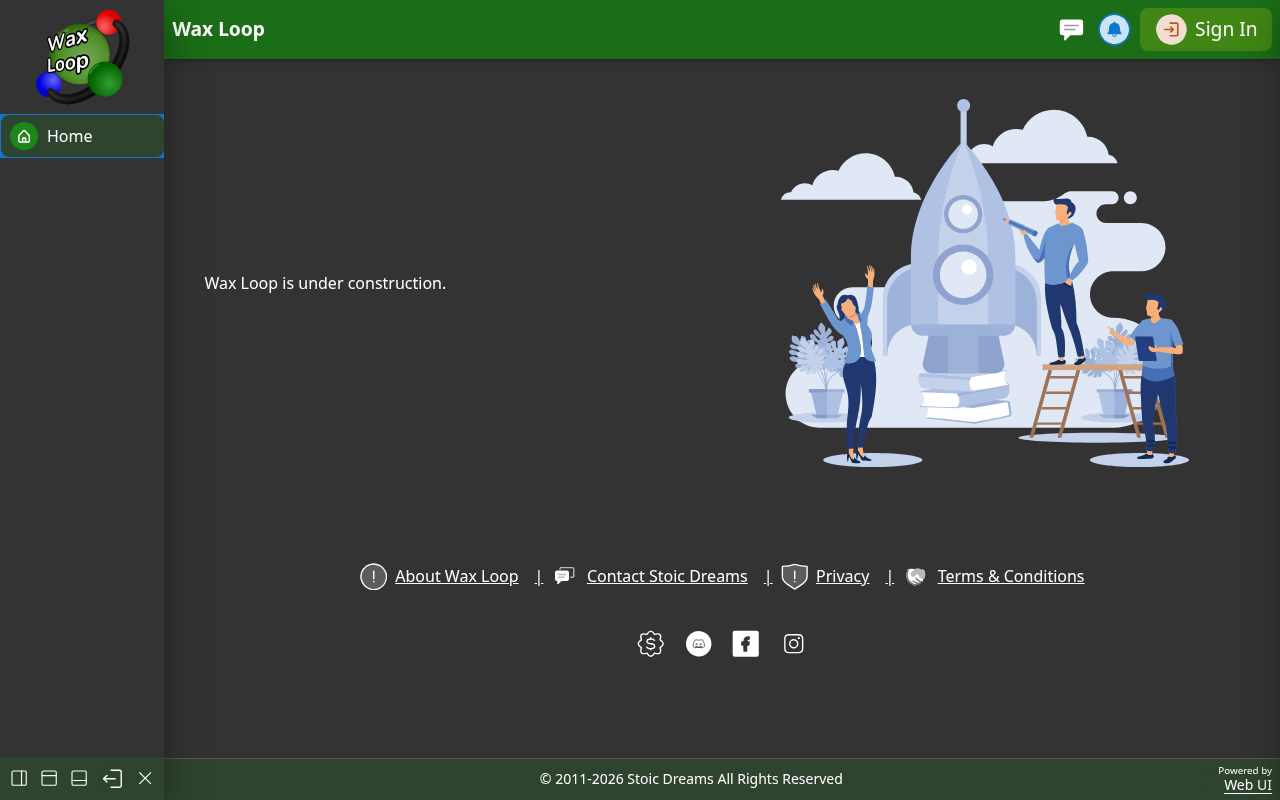
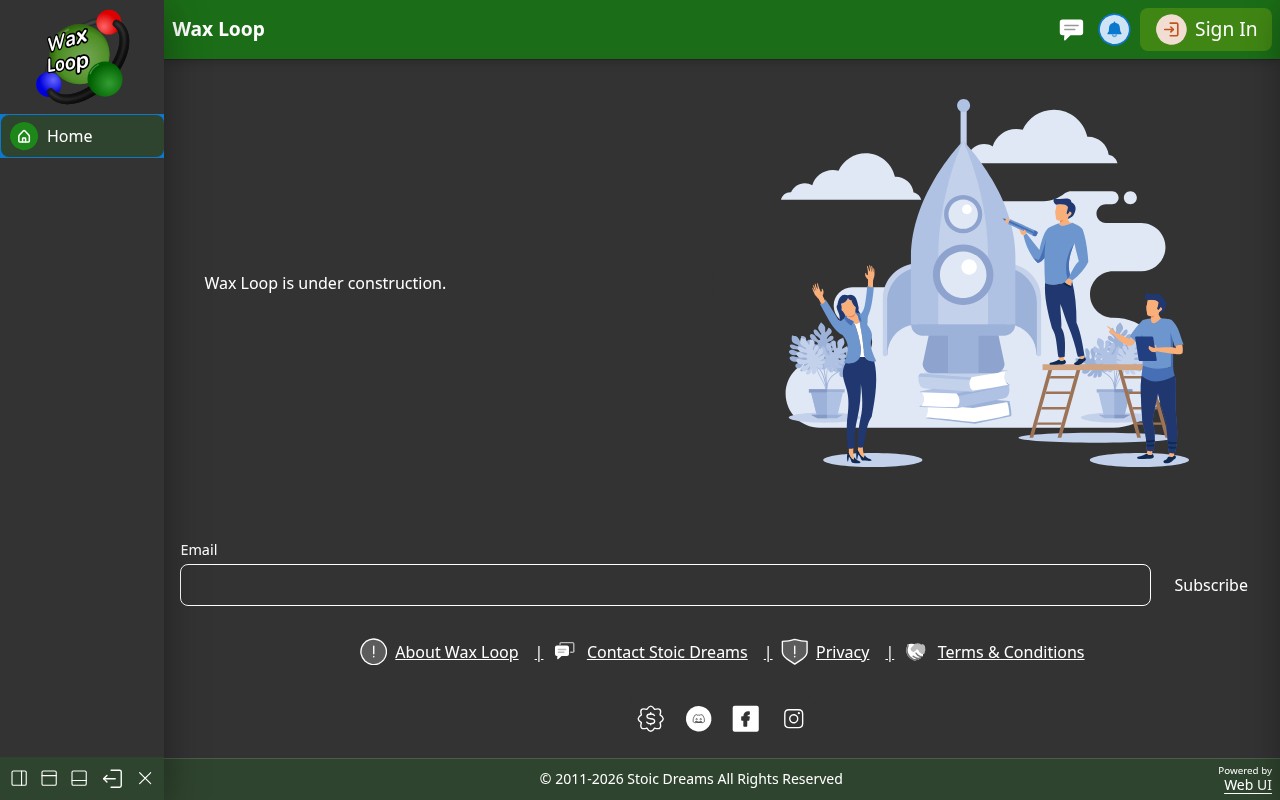
Stoic Dreams newsletter signup Feature: The footer has the Stoic Dreams newsletter signup form, as stoicdreams.com does

diff --git a/webapp/root_files/service-worker.min.js b/webapp/root_files/service-worker.min.js
@@ -1,1 +1,1 @@
-self.addEventListener("install",t=>t.waitUntil(onInstall(t))),self.addEventListener("activate",t=>t.waitUntil(onActivate(t))),self.addEventListener("fetch",t=>{const e=new URL(t.request.url);e.protocol==="ipc:"||e.protocol==="tauri:"||e.hostname==="ipc.localhost"||e.hostname==="tauri.localhost"||e.hostname.startsWith("127")||e.hostname==="localhost"||t.request.url.startsWith("http")&&allowCache(t.request)&&t.respondWith(onFetch(t))});const currentVersion="0.1.29",cacheNamePrefix="offline-cache-",cacheName=`${cacheNamePrefix}${currentVersion}`;async function onInstall(t){self.skipWaiting()}async function onActivate(t){const e=await caches.keys();await Promise.all(e.filter(a=>a.startsWith(cacheNamePrefix)&&a!==cacheName).map(a=>caches.delete(a))),await self.clients.claim()}async function onFetch(t){const e=await caches.open(cacheName);let a;try{a=await fetch(applyCacheBusting(t.request))}catch(n){const c=await e.match(t.request);if(c)return c;throw n}return a.ok?(t.waitUntil(e.put(t.request,a.clone()).catch(()=>{})),a):await e.match(t.request)||a}function applyCacheBusting(t){try{const e=new URL(t.url);return e.searchParams.set("_",Date.now()),new Request(e.toString(),t)}catch{return t}}function allowCache(t){return!(t.method!=="GET"||t.mode==="navigate")}
+self.addEventListener("install",t=>t.waitUntil(onInstall(t))),self.addEventListener("activate",t=>t.waitUntil(onActivate(t))),self.addEventListener("fetch",t=>{const e=new URL(t.request.url);e.protocol==="ipc:"||e.protocol==="tauri:"||e.hostname==="ipc.localhost"||e.hostname==="tauri.localhost"||e.hostname.startsWith("127")||e.hostname==="localhost"||t.request.url.startsWith("http")&&allowCache(t.request)&&t.respondWith(onFetch(t))});const currentVersion="0.1.30",cacheNamePrefix="offline-cache-",cacheName=`${cacheNamePrefix}${currentVersion}`;async function onInstall(t){self.skipWaiting()}async function onActivate(t){const e=await caches.keys();await Promise.all(e.filter(a=>a.startsWith(cacheNamePrefix)&&a!==cacheName).map(a=>caches.delete(a))),await self.clients.claim()}async function onFetch(t){const e=await caches.open(cacheName);let a;try{a=await fetch(applyCacheBusting(t.request))}catch(n){const c=await e.match(t.request);if(c)return c;throw n}return a.ok?(t.waitUntil(e.put(t.request,a.clone()).catch(()=>{})),a):await e.match(t.request)||a}function applyCacheBusting(t){try{const e=new URL(t.url);return e.searchParams.set("_",Date.now()),new Request(e.toString(),t)}catch{return t}}function allowCache(t){return!(t.method!=="GET"||t.mode==="navigate")}

diff --git a/webapp/pages/index.html b/webapp/pages/index.html
@@ -81,12 +81,13 @@
 	<link rel="preload" as="script" href="https://cdn.myfi.ws/webui/link.min.js" crossorigin="anonymous" />
 	<link rel="preload" as="script" href="https://cdn.myfi.ws/webui/myfi-info.min.js" crossorigin="anonymous" />
 	<link rel="preload" as="script" href="https://cdn.myfi.ws/webui/nav.min.js" crossorigin="anonymous" />
+	<link rel="preload" as="script" href="https://cdn.myfi.ws/webui/newsletter.min.js" crossorigin="anonymous" />
 	<link rel="preload" as="script" href="https://cdn.myfi.ws/webui/next-page.min.js" crossorigin="anonymous" />
 	<link rel="preload" as="script" href="https://cdn.myfi.ws/webui/page-footer.min.js" crossorigin="anonymous" />
 	<link rel="preload" as="script" href="https://cdn.myfi.ws/webui/stoic-dreams-logo.min.js" crossorigin="anonymous" />
 	<link rel="preload" as="script" href="https://cdn.myfi.ws/webui/stoic-social-links.min.js" crossorigin="anonymous" />
 	<link rel="preload" as="script" href="https://cdn.myfi.ws/webui/under-construction.min.js" crossorigin="anonymous" />
-	<meta name="webui-prerender" content="114298671c">
+	<meta name="webui-prerender" content="89d2545d69">
 </head>
 
 <body>
@@ -123,6 +124,7 @@
 		<noscript>Javascript is required to view this site</noscript>
 		<webui-page-footer copyright="2011" company="Stoic Dreams">
 			<webui-next-page theme="tertiary" data-subscribe="page-next-page"></webui-next-page>
+			<webui-newsletter key="703a9b5e-0a14-4ed7-9618-ce96ca4e3e21"></webui-newsletter>
 			<webui-flex class="my-3" justify="center" wrap>
 				<webui-link href="/about" icon="circle_exclamation|backing|bordered">About Wax Loop</webui-link>
 				<webui-link href="/contact" icon="messages|fill|shade:tri">Contact Stoic Dreams</webui-link>

diff --git a/webapp/pages/about.html b/webapp/pages/about.html
@@ -83,11 +83,12 @@
 	<link rel="preload" as="script" href="https://cdn.myfi.ws/webui/link.min.js" crossorigin="anonymous" />
 	<link rel="preload" as="script" href="https://cdn.myfi.ws/webui/myfi-info.min.js" crossorigin="anonymous" />
 	<link rel="preload" as="script" href="https://cdn.myfi.ws/webui/nav.min.js" crossorigin="anonymous" />
+	<link rel="preload" as="script" href="https://cdn.myfi.ws/webui/newsletter.min.js" crossorigin="anonymous" />
 	<link rel="preload" as="script" href="https://cdn.myfi.ws/webui/next-page.min.js" crossorigin="anonymous" />
 	<link rel="preload" as="script" href="https://cdn.myfi.ws/webui/page-footer.min.js" crossorigin="anonymous" />
 	<link rel="preload" as="script" href="https://cdn.myfi.ws/webui/stoic-dreams-logo.min.js" crossorigin="anonymous" />
 	<link rel="preload" as="script" href="https://cdn.myfi.ws/webui/stoic-social-links.min.js" crossorigin="anonymous" />
-	<meta name="webui-prerender" content="a0ec4bf051">
+	<meta name="webui-prerender" content="d93cee7193">
 </head>
 
 <body>
@@ -126,6 +127,7 @@
 		<noscript>Javascript is required to view this site</noscript>
 		<webui-page-footer copyright="2011" company="Stoic Dreams">
 			<webui-next-page theme="tertiary" data-subscribe="page-next-page"></webui-next-page>
+			<webui-newsletter key="703a9b5e-0a14-4ed7-9618-ce96ca4e3e21"></webui-newsletter>
 			<webui-flex class="my-3" justify="center" wrap>
 				<webui-link href="/about" icon="circle_exclamation|backing|bordered">About Wax Loop</webui-link>
 				<webui-link href="/contact" icon="messages|fill|shade:tri">Contact Stoic Dreams</webui-link>

diff --git a/webapp/pages/contact.html b/webapp/pages/contact.html
@@ -83,11 +83,12 @@
 	<link rel="preload" as="script" href="https://cdn.myfi.ws/webui/link.min.js" crossorigin="anonymous" />
 	<link rel="preload" as="script" href="https://cdn.myfi.ws/webui/myfi-info.min.js" crossorigin="anonymous" />
 	<link rel="preload" as="script" href="https://cdn.myfi.ws/webui/nav.min.js" crossorigin="anonymous" />
+	<link rel="preload" as="script" href="https://cdn.myfi.ws/webui/newsletter.min.js" crossorigin="anonymous" />
 	<link rel="preload" as="script" href="https://cdn.myfi.ws/webui/next-page.min.js" crossorigin="anonymous" />
 	<link rel="preload" as="script" href="https://cdn.myfi.ws/webui/page-footer.min.js" crossorigin="anonymous" />
 	<link rel="preload" as="script" href="https://cdn.myfi.ws/webui/stoic-dreams-logo.min.js" crossorigin="anonymous" />
 	<link rel="preload" as="script" href="https://cdn.myfi.ws/webui/stoic-social-links.min.js" crossorigin="anonymous" />
-	<meta name="webui-prerender" content="b98280dea2">
+	<meta name="webui-prerender" content="e2c04407d8">
 </head>
 
 <body>
@@ -124,6 +125,7 @@
 		<noscript>Javascript is required to view this site</noscript>
 		<webui-page-footer copyright="2011" company="Stoic Dreams">
 			<webui-next-page theme="tertiary" data-subscribe="page-next-page"></webui-next-page>
+			<webui-newsletter key="703a9b5e-0a14-4ed7-9618-ce96ca4e3e21"></webui-newsletter>
 			<webui-flex class="my-3" justify="center" wrap>
 				<webui-link href="/about" icon="circle_exclamation|backing|bordered">About Wax Loop</webui-link>
 				<webui-link href="/contact" icon="messages|fill|shade:tri">Contact Stoic Dreams</webui-link>

diff --git a/webapp/pages/privacy.html b/webapp/pages/privacy.html
@@ -83,11 +83,12 @@
 	<link rel="preload" as="script" href="https://cdn.myfi.ws/webui/link.min.js" crossorigin="anonymous" />
 	<link rel="preload" as="script" href="https://cdn.myfi.ws/webui/myfi-info.min.js" crossorigin="anonymous" />
 	<link rel="preload" as="script" href="https://cdn.myfi.ws/webui/nav.min.js" crossorigin="anonymous" />
+	<link rel="preload" as="script" href="https://cdn.myfi.ws/webui/newsletter.min.js" crossorigin="anonymous" />
 	<link rel="preload" as="script" href="https://cdn.myfi.ws/webui/next-page.min.js" crossorigin="anonymous" />
 	<link rel="preload" as="script" href="https://cdn.myfi.ws/webui/page-footer.min.js" crossorigin="anonymous" />
 	<link rel="preload" as="script" href="https://cdn.myfi.ws/webui/stoic-dreams-logo.min.js" crossorigin="anonymous" />
 	<link rel="preload" as="script" href="https://cdn.myfi.ws/webui/stoic-social-links.min.js" crossorigin="anonymous" />
-	<meta name="webui-prerender" content="9b18bc9cda">
+	<meta name="webui-prerender" content="72f9278e52">
 </head>
 
 <body>
@@ -124,6 +125,7 @@
 		<noscript>Javascript is required to view this site</noscript>
 		<webui-page-footer copyright="2011" company="Stoic Dreams">
 			<webui-next-page theme="tertiary" data-subscribe="page-next-page"></webui-next-page>
+			<webui-newsletter key="703a9b5e-0a14-4ed7-9618-ce96ca4e3e21"></webui-newsletter>
 			<webui-flex class="my-3" justify="center" wrap>
 				<webui-link href="/about" icon="circle_exclamation|backing|bordered">About Wax Loop</webui-link>
 				<webui-link href="/contact" icon="messages|fill|shade:tri">Contact Stoic Dreams</webui-link>

diff --git a/webapp/pages/terms.html b/webapp/pages/terms.html
@@ -83,11 +83,12 @@
 	<link rel="preload" as="script" href="https://cdn.myfi.ws/webui/link.min.js" crossorigin="anonymous" />
 	<link rel="preload" as="script" href="https://cdn.myfi.ws/webui/myfi-info.min.js" crossorigin="anonymous" />
 	<link rel="preload" as="script" href="https://cdn.myfi.ws/webui/nav.min.js" crossorigin="anonymous" />
+	<link rel="preload" as="script" href="https://cdn.myfi.ws/webui/newsletter.min.js" crossorigin="anonymous" />
 	<link rel="preload" as="script" href="https://cdn.myfi.ws/webui/next-page.min.js" crossorigin="anonymous" />
 	<link rel="preload" as="script" href="https://cdn.myfi.ws/webui/page-footer.min.js" crossorigin="anonymous" />
 	<link rel="preload" as="script" href="https://cdn.myfi.ws/webui/stoic-dreams-logo.min.js" crossorigin="anonymous" />
 	<link rel="preload" as="script" href="https://cdn.myfi.ws/webui/stoic-social-links.min.js" crossorigin="anonymous" />
-	<meta name="webui-prerender" content="d67215a3e8">
+	<meta name="webui-prerender" content="0045c61253">
 </head>
 
 <body>
@@ -124,6 +125,7 @@
 		<noscript>Javascript is required to view this site</noscript>
 		<webui-page-footer copyright="2011" company="Stoic Dreams">
 			<webui-next-page theme="tertiary" data-subscribe="page-next-page"></webui-next-page>
+			<webui-newsletter key="703a9b5e-0a14-4ed7-9618-ce96ca4e3e21"></webui-newsletter>
 			<webui-flex class="my-3" justify="center" wrap>
 				<webui-link href="/about" icon="circle_exclamation|backing|bordered">About Wax Loop</webui-link>
 				<webui-link href="/contact" icon="messages|fill|shade:tri">Contact Stoic Dreams</webui-link>

diff --git a/webapp/index.html b/webapp/index.html
@@ -110,6 +110,7 @@
 		<noscript>Javascript is required to view this site</noscript>
 		<webui-page-footer copyright="2011" company="Stoic Dreams">
 			<webui-next-page theme="tertiary" data-subscribe="page-next-page"></webui-next-page>
+			<webui-newsletter key="703a9b5e-0a14-4ed7-9618-ce96ca4e3e21"></webui-newsletter>
 			<webui-flex class="my-3" justify="center" wrap>
 				<webui-link href="/about" icon="circle_exclamation|backing|bordered">About {APP_NAME}</webui-link>
 				<webui-link href="/contact" icon="messages|fill|shade:tri">Contact {COMPANY_SINGULAR}</webui-link>

diff --git a/webapp/root_files/service-worker.js b/webapp/root_files/service-worker.js
@@ -20,7 +20,7 @@ self.addEventListener('fetch', event => {
     }
     event.respondWith(onFetch(event))
 });
-const currentVersion = '0.1.29';
+const currentVersion = '0.1.30';
 const cacheNamePrefix = 'offline-cache-';
 const cacheName = `${cacheNamePrefix}${currentVersion}`;
 async function onInstall(event) {

diff --git a/Docs/README.md b/Docs/README.md
@@ -1,6 +1,6 @@
 # Wax Loop
 
-[Version: 0.1.29](https://github.com/StoicDreams/WaxLoop)
+[Version: 0.1.30](https://github.com/StoicDreams/WaxLoop)
 
 [WebUI](https://github.com/StoicDreams/WebUI)
 
